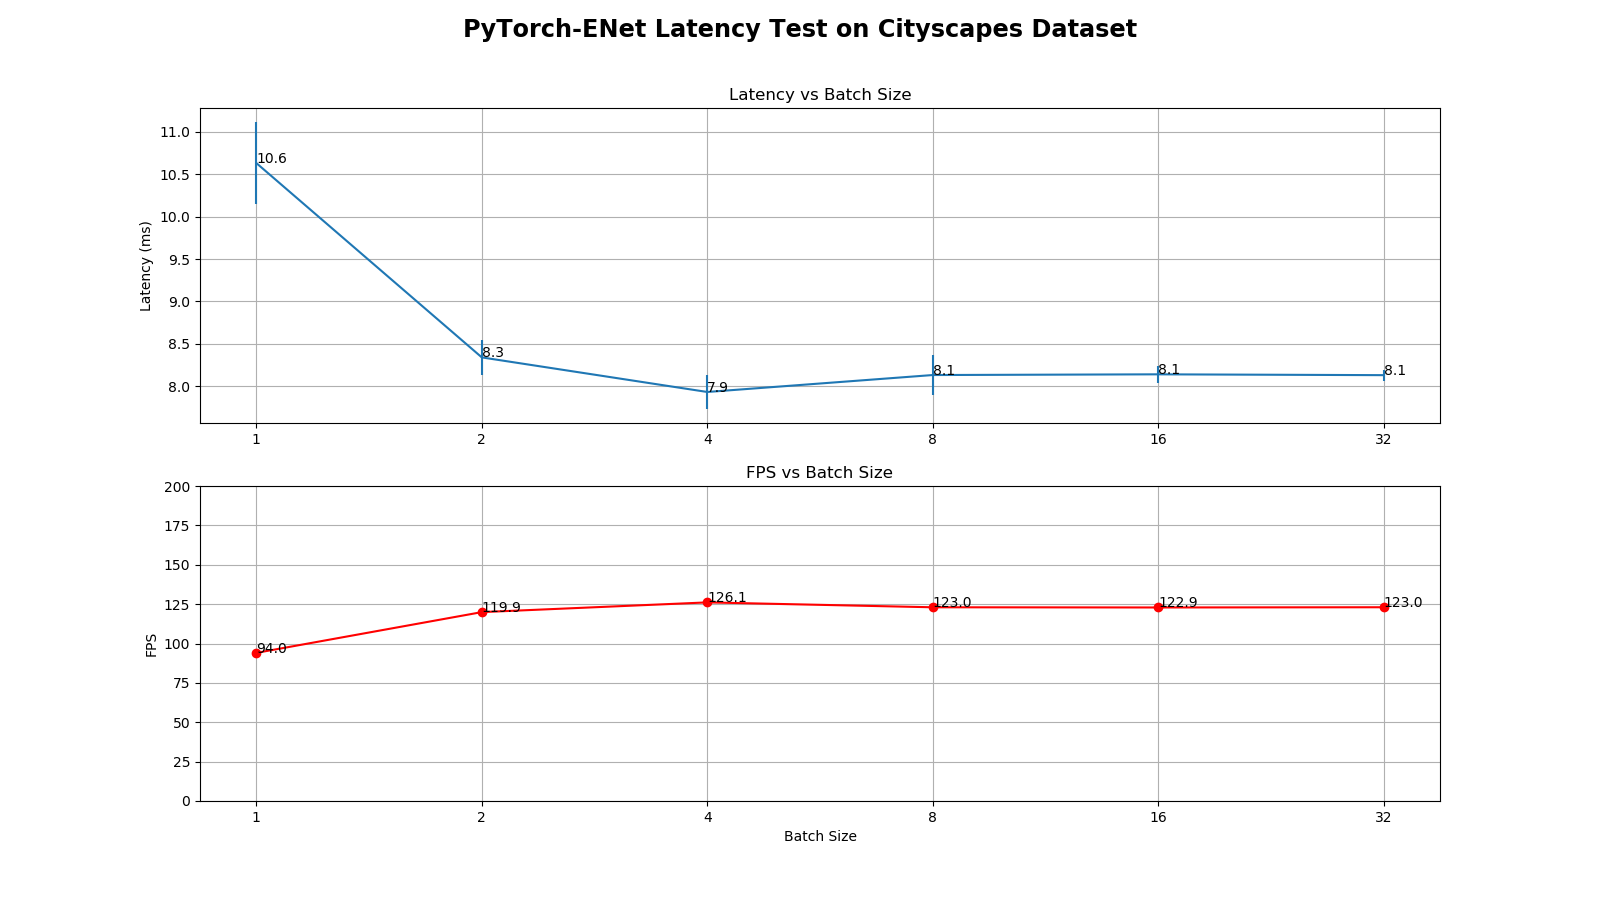
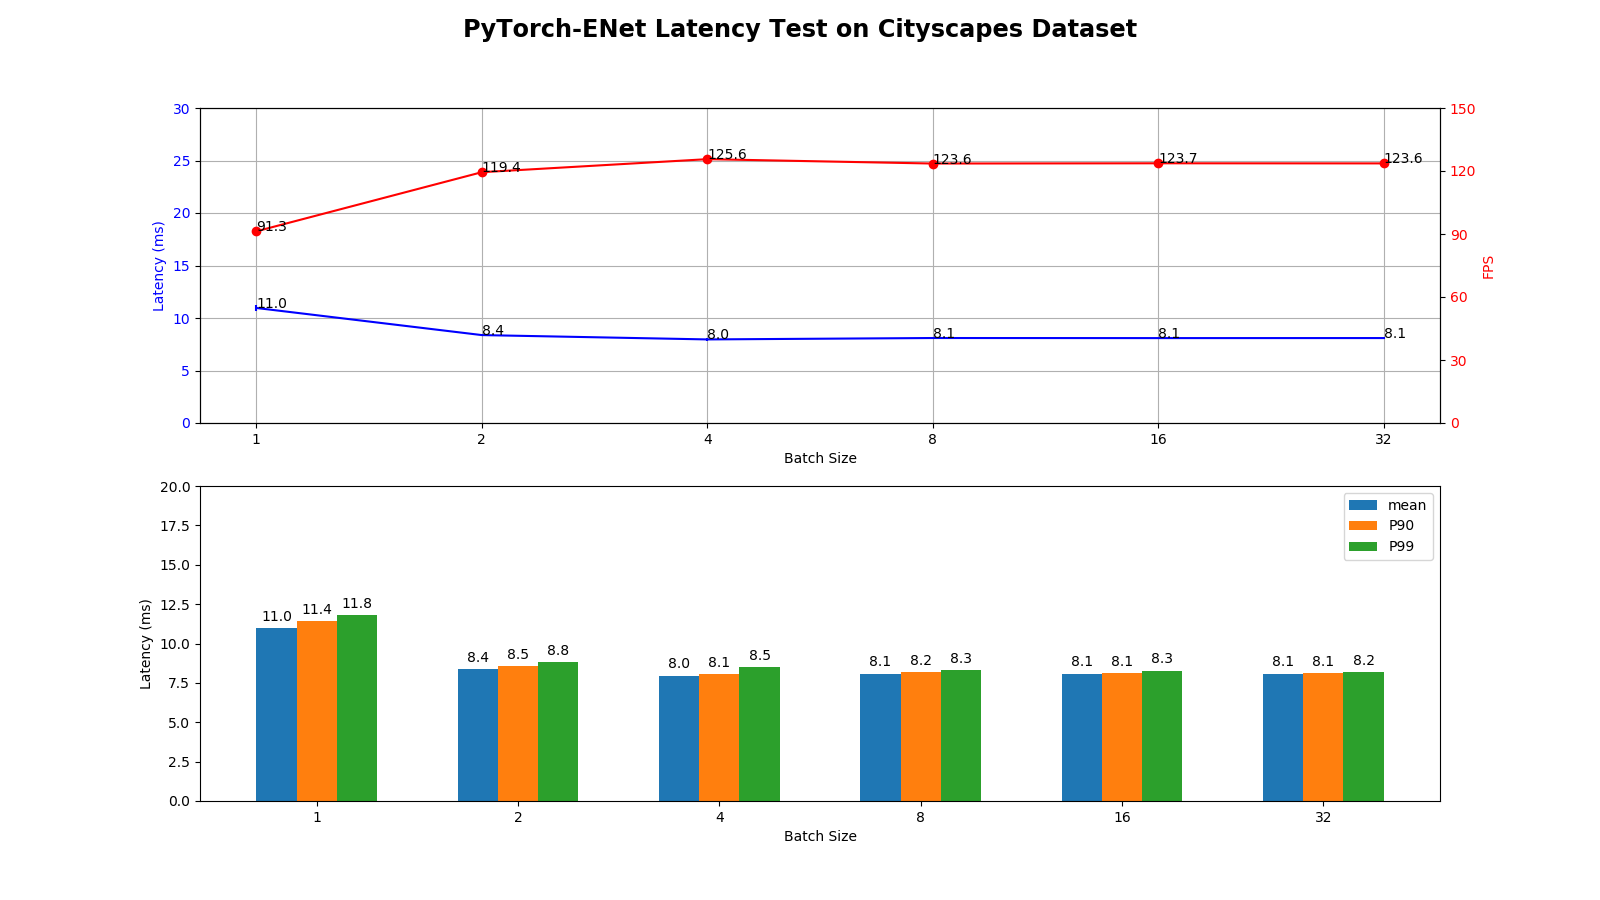
added percentile plot

diff --git a/profiling.py b/profiling.py
@@ -9,7 +9,7 @@ import torch
 import torch.nn as nn
 import torchvision.transforms as transforms
 import matplotlib.pyplot as plt
-from matplotlib.ticker import ScalarFormatter
+from matplotlib.ticker import ScalarFormatter, MultipleLocator
 from PIL import Image
 
 from models.enet import ENet
@@ -105,6 +105,8 @@ else:
             batch_size = [args.batch_size]
         means = []
         stds = []
+        percentile_90 = []
+        percentile_99 = []
         fps = []
         for bs in batch_size:
             print("Batch size: {}".format(bs))
@@ -123,36 +125,77 @@ else:
                 end = time.time()
                 latencies[i] = end - start
 
+            latencies.sort()
             mean_latency = np.mean(latencies) * 1000
             std_latency = np.std(latencies) * 1000
-            print("Latency Total: mean: {:.3f} ms, std: {:.3f} ms".format(mean_latency, std_latency))
-            print("Latency Avg:   mean: {:.3f} ms, std: {:.3f} ms".format(mean_latency/bs, std_latency/bs))
-            print("FPS Avg: mean: {:.2f}".format(1000/mean_latency*bs))
+            p90 = latencies[int(args.iter * 0.9 - 1)] * 1000
+            p99 = latencies[int(args.iter * 0.99 - 1)] * 1000
+            # print("Latency Total: mean: {:.3f} ms, std: {:.3f} ms".format(mean_latency, std_latency))
+            print("Latency: mean: {:.3f}ms ({:.2f} FPS), std: {:.3f}ms, P90: {:.3f}ms, P99: {:.3f}ms".format(
+                mean_latency/bs, 1000/mean_latency*bs, std_latency/bs, p90/bs, p99/bs))
             means.append(mean_latency/bs)
             stds.append(std_latency/bs)
             fps.append(1000/mean_latency*bs)
+            percentile_90.append(p90/bs)
+            percentile_99.append(p99/bs)
 
-    xlim_max = 2** (int(math.log2(args.batch_size)+1))
     fig = plt.figure(figsize=(16, 9))
     fig.suptitle("PyTorch-ENet Latency Test on Cityscapes Dataset", fontsize='xx-large', fontweight='bold')
     axs = fig.subplots(2, 1)
-    axs[0].errorbar(batch_size, means, stds)
-    # axs[0].set_xlabel('Batch Size'); 
-    axs[0].set_ylabel('Latency (ms)')
+    axs[0].errorbar(batch_size, means, stds, c='b')
+    axs[0].set_xlabel('Batch Size'); 
+    axs[0].set_ylabel('Latency (ms)', c='b')
+    axs[0].set_ylim(0, 30)
     axs[0].set_xscale('log', basex=2); axs[0].xaxis.set_major_formatter(ScalarFormatter()); axs[0].set_xticks(batch_size)
-    axs[0].set_title("Latency vs Batch Size")
+    # axs[0].set_title("Latency vs Batch Size")
     axs[0].grid(True)
+    axs[0].yaxis.set_major_locator(MultipleLocator(5))
+    axs[0].tick_params(axis='y', labelcolor='b')
     for x, y in zip(batch_size, means):
         axs[0].annotate('{:.1f}'.format(y), xy=(x, y))
 
-    axs[1].plot(batch_size, fps, c='r', marker='o')
-    axs[1].set_xlabel('Batch Size'); axs[1].set_ylabel('FPS')
-    axs[1].set_ylim(0, 200)
-    axs[1].set_xscale('log', basex=2); axs[1].xaxis.set_major_formatter(ScalarFormatter()); axs[1].set_xticks(batch_size)
-    axs[1].set_title("FPS vs Batch Size")
-    axs[1].grid(True)
+    ax_fps = axs[0].twinx()
+    ax_fps.plot(batch_size, fps, c='r', marker='o')
+    # ax_fps.set_xlabel('Batch Size')
+    ax_fps.set_ylabel('FPS', c='r')
+    ax_fps.set_ylim(0, 150)
+    ax_fps.yaxis.set_major_locator(MultipleLocator(30))
+    ax_fps.tick_params(axis='y', labelcolor='r')
+    # ax_fps.set_xscale('log', basex=2); ax_fps.xaxis.set_major_formatter(ScalarFormatter()); ax_fps.set_xticks(batch_size)
+    # ax_fps.grid(True)
     for x, y in zip(batch_size, fps):
-        axs[1].annotate('{:.1f}'.format(y), xy=(x, y))
+        ax_fps.annotate('{:.1f}'.format(y), xy=(x, y))
+    
+    labels = [str(bs) for bs in batch_size]
+    x = np.arange(len(labels))
+    print(labels, x)
+    width = 0.2
+    rects1 = axs[1].bar(x - width, means, width, label='mean')
+    rects2 = axs[1].bar(x,         percentile_90, width, label='P90')
+    rects3 = axs[1].bar(x + width, percentile_99, width, label='P99')
+    axs[1].set_ylabel('Latency (ms)')
+    axs[1].set_xlabel('Batch Size')
+    # axs[1].set_title("Latency across percentile")
+    # axs[1].set_xscale('log', basex=2); axs[0].xaxis.set_major_formatter(ScalarFormatter())
+    axs[1].set_xticks(x)
+    axs[1].set_xticklabels(labels)
+    axs[1].set_ylim(0, 20)
+    axs[1].legend()
+
+    def autolabel(rects):
+        """Attach a text label above each bar in *rects*, displaying its height."""
+        for rect in rects:
+            height = rect.get_height()
+            axs[1].annotate('{:.1f}'.format(height),
+                        xy=(rect.get_x() + rect.get_width() / 2, height),
+                        xytext=(0, 3),  # 3 points vertical offset
+                        textcoords="offset points",
+                        ha='center', va='bottom')
+
+    autolabel(rects1)
+    autolabel(rects2)
+    autolabel(rects3)
+    # fig.tight_layout()
     
     if args.plot:
         plt.show()
